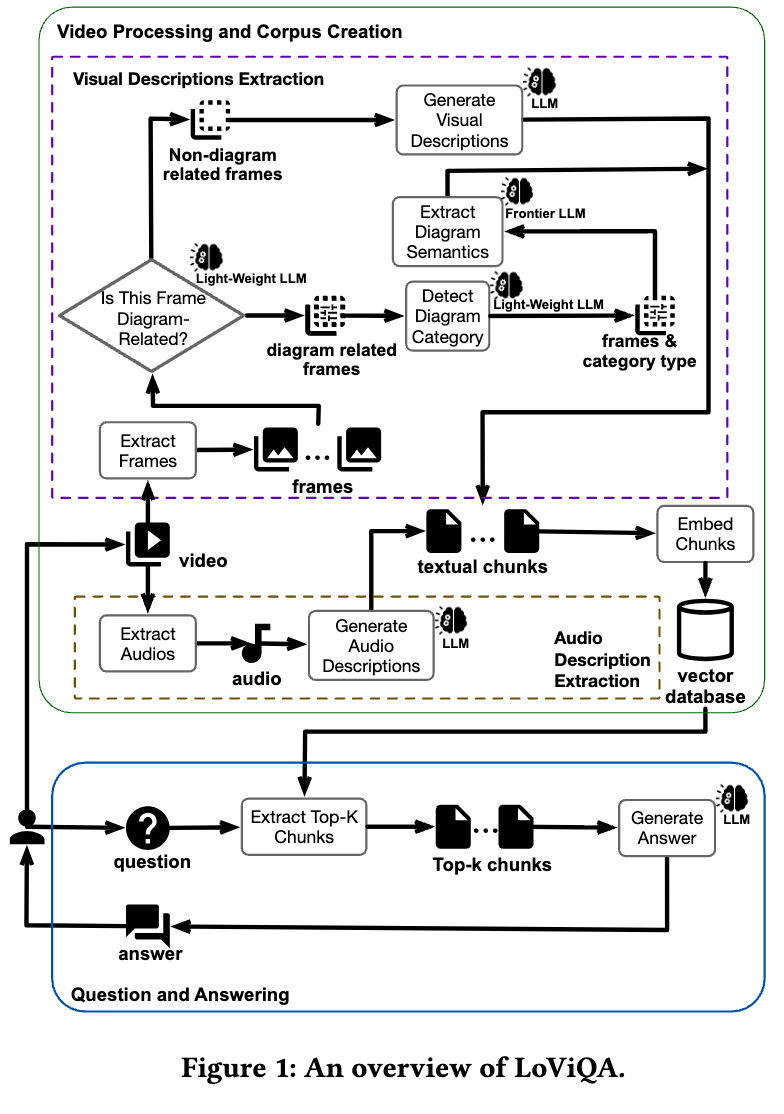
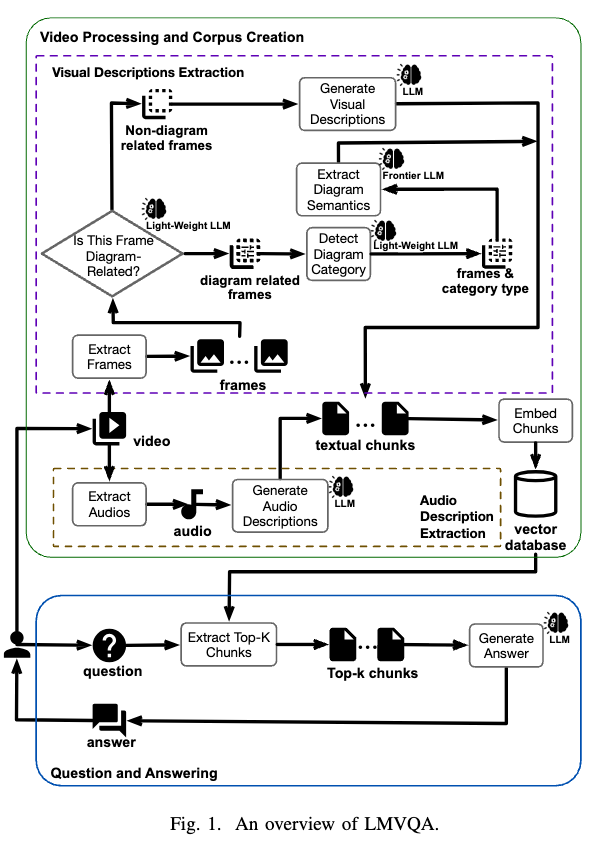
change the name

Changed region(s): [[0.0, 0.0, 0.9867, 0.9811]]

diff --git a/README.md b/README.md
@@ -5,14 +5,14 @@
 </p>
 
 <p align="center">
-  <em>Figure: End-to-end workflow of LoViQA pipeline.</em>
+  <em>Figure: End-to-end workflow of LMVQA pipeline.</em>
 </p>
 
 
-# LoViQA
+# LMVQA
 
 ## Project Overview
-The LoViQA pipeline extends the Agentic AI Hub by adding a powerful video-based question answering (VideoQA) capability. It uses:
+The LMVQA pipeline extends the Agentic AI Hub by adding a powerful video-based question answering (VideoQA) capability. It uses:
 - **GPT-4o** for question answering and non-diagram frame captioning (model name is configurable)
 - **GPT-5** for diagram frame captioning with category-specific extraction prompts (configurable)
 - A **lightweight LLM** (default: **GPT-4o-mini**) as a 2-stage diagram router:
@@ -122,7 +122,7 @@ python scripts/main.py --video <video_path> --question "Summarize the entire vid
 ### If you already have the Audio Descriptions and Frame Descriptions
 You can run the QA part without generating Audio Descriptions and Frame Descriptions again:
 ```sh
-python scripts/ask_loviqa.py --video <video_path> --question "<your_question>"
+python scripts/ask_lmvqa.py --video <video_path> --question "<your_question>"
 ```
 
 ---
@@ -130,7 +130,7 @@ python scripts/ask_loviqa.py --video <video_path> --question "<your_question>"
 ## Directory Structure
 - `scripts/main.py` – full pipeline using GPT-4o (QA + non-diagram captioning) + GPT-5 (diagram captioning) + OpenAI-Whisper + Milvus RAG
 
-- `scripts/ask_loviqa.py` – ask questions with precomputed transcripts/descriptions
+- `scripts/ask_lmvqa.py` – ask questions with precomputed transcripts/descriptions
 
 - `assets/` – figures/images used in the README (e.g. `assets/Fig1.png`)
 
@@ -160,15 +160,15 @@ python3.11 --version
 
 **macOS / Linux:**
 ```bash
-python3.11 -m venv loviqa-env
+python3.11 -m venv lmvqa-env
 
-source loviqa-env/bin/activate
+source lmvqa-env/bin/activate
 ```
 
 **Windows (PowerShell):**
 ```powershell
-python -m venv loviqa-env
-.\loviqa-env\Scripts\Activate.ps1
+python -m venv lmvqa-env
+.\lmvqa-env\Scripts\Activate.ps1
 ```
 
 3. **Install Requirements**
